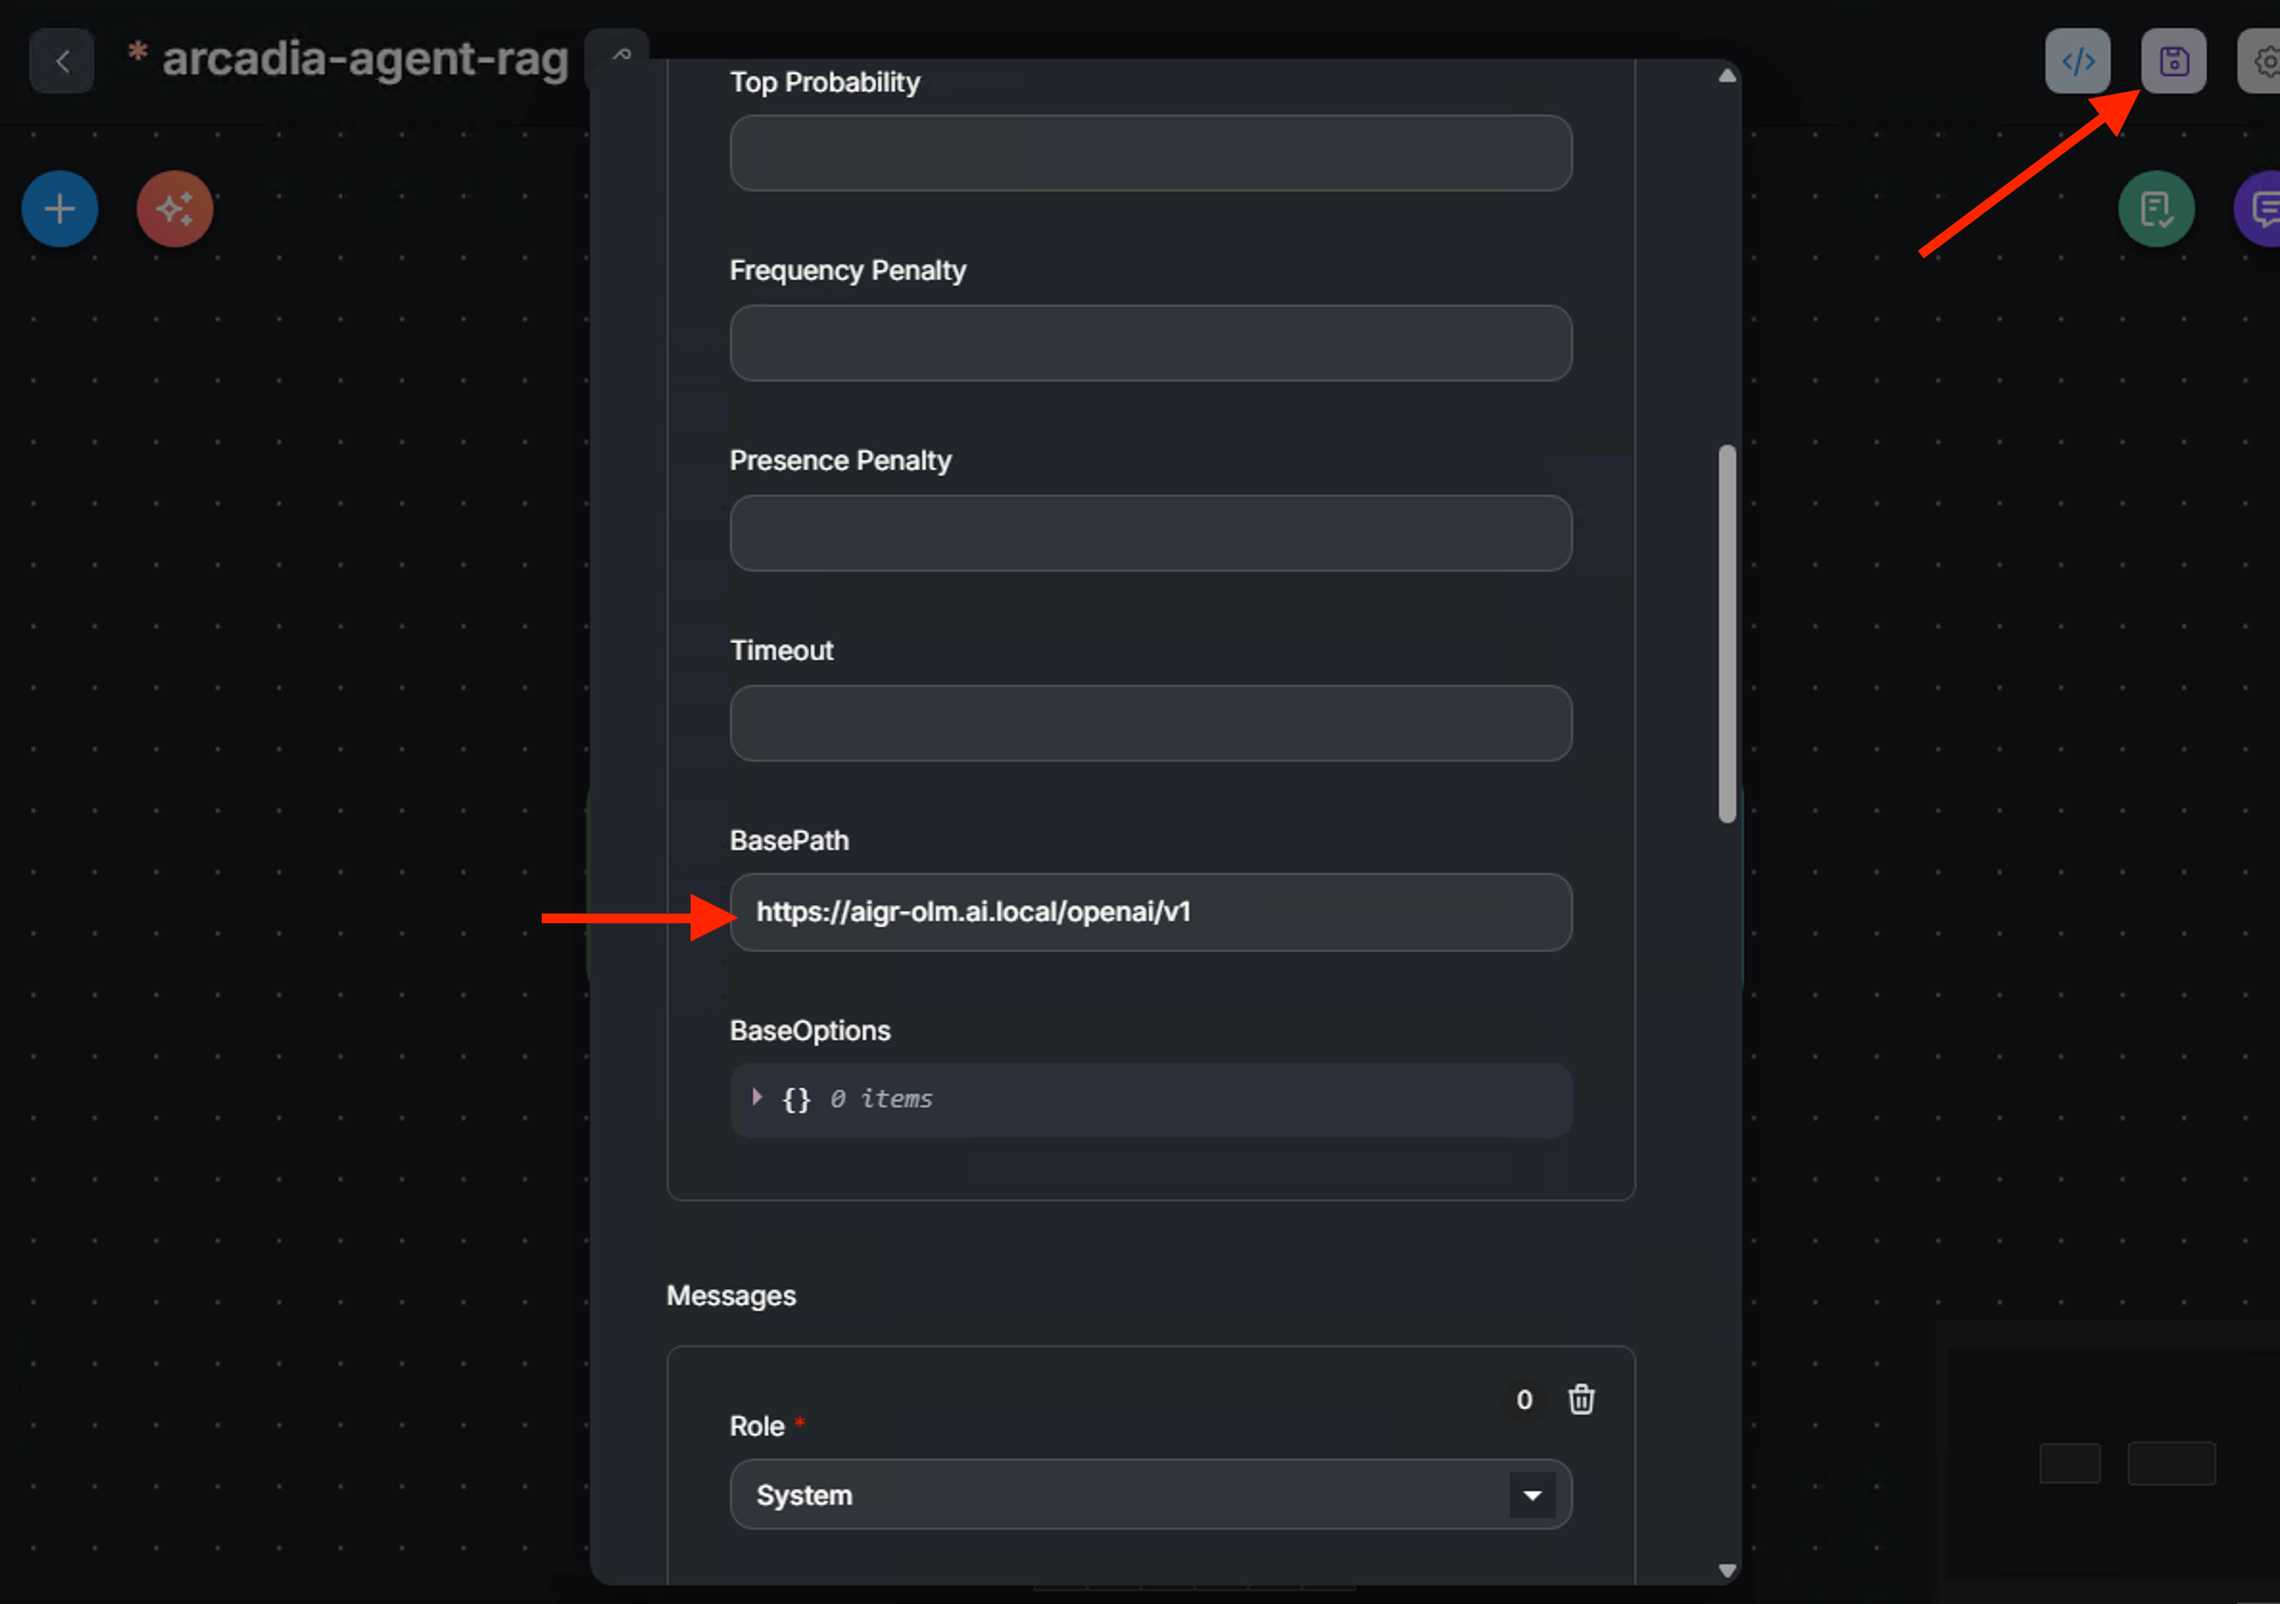
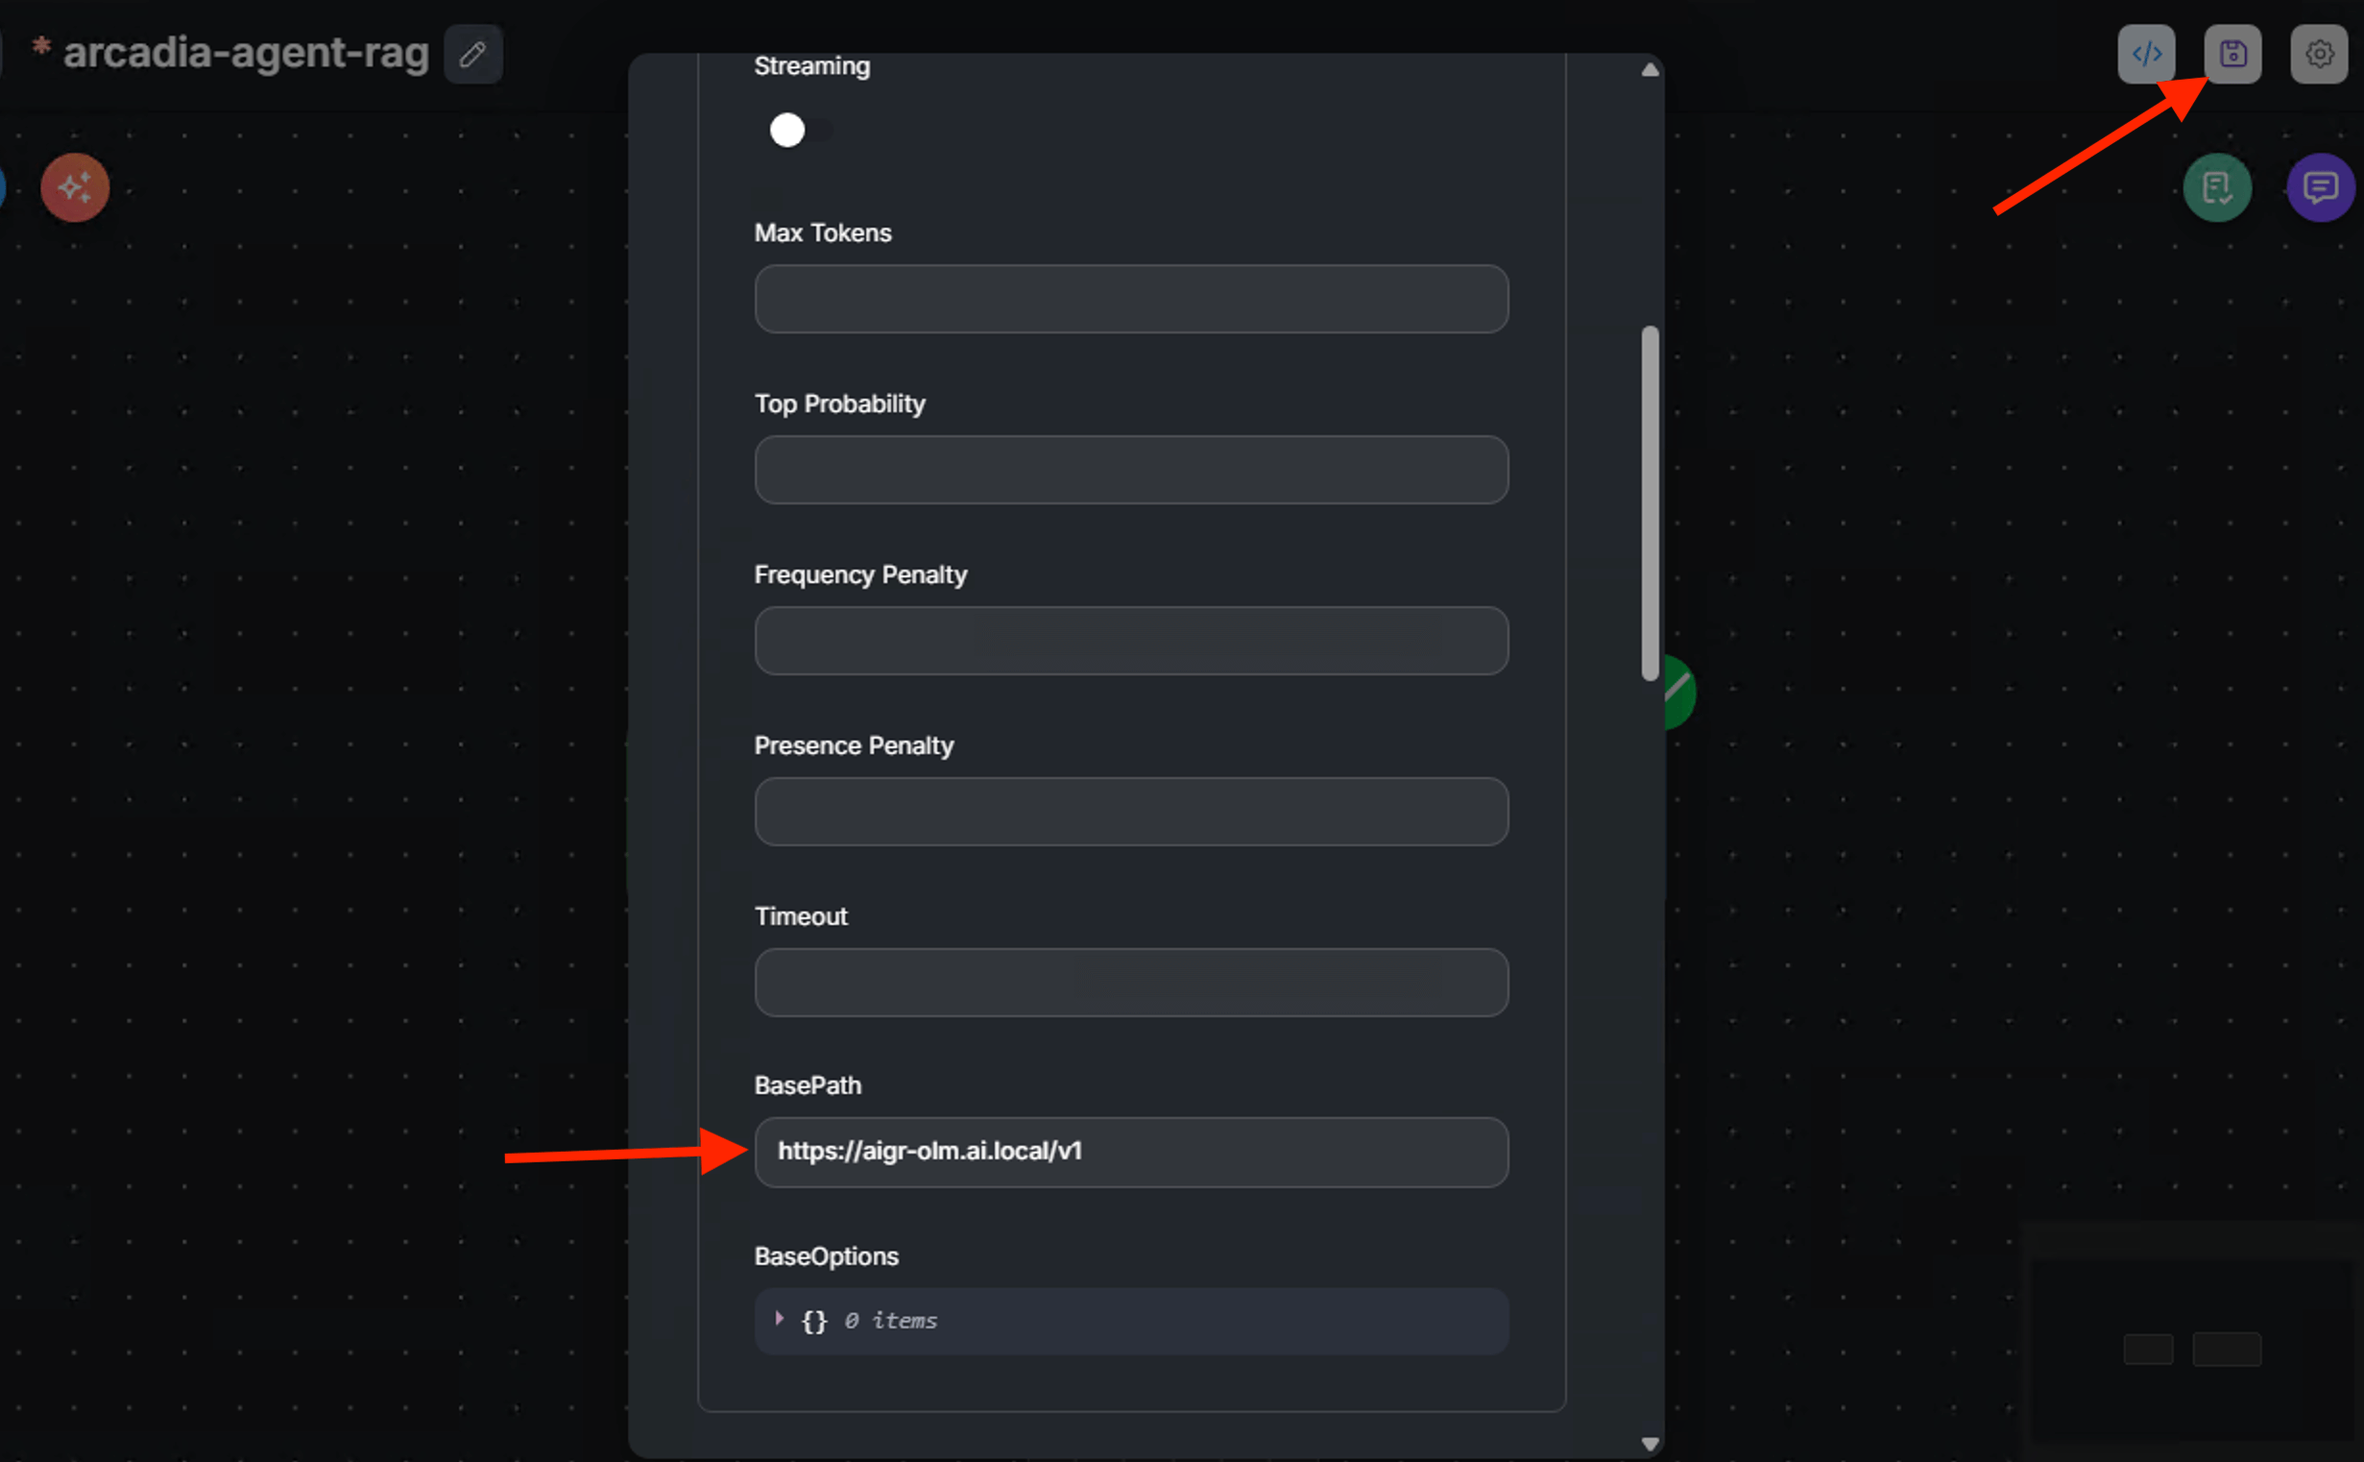
update

diff --git a/docs/class5/class5.rst b/docs/class5/class5.rst
@@ -255,7 +255,7 @@ Click **Add** on **genai-azure-openai** as the model for your project. This conn
 
 .. Attention:: 
 
-   This remote GPU inference service is running on a **Azure OpenAI Model as a Service**. Please be considerate and avoid running heavy workload that may impact other students. Performance of the inference service may vary and may not scale for large audiences. Thank you for your understanding.
+   This remote GPU inference service is running on a **Azure OpenAI Model as a Service**. Please be considerate and avoid running un-neccessary heavy workload that may impact other students. Performance of the inference service may vary. Thank you for your understanding.
 
 ..  image:: ./_static/class5-aigr-project-3-0.png
 
@@ -705,7 +705,7 @@ Update FlowiseAI QnA Agent to point to Nginx AI Guardrails connector endpoint.
 
 .. NOTE::
 
-   For this out-of-band deployment, we are going to use OpenAI API compatible endpoint as the LLM provider. In this case, **gpuaas-api-key** was pre-created and ready to be used.
+   For this out-of-band deployment, we are going to use OpenAI API compatible endpoint as the LLM provider. In this case, **azure-open-ai** was pre-created and ready to be used.
 
 
 .. image:: ./_static/class5-oob-05.png
@@ -714,7 +714,7 @@ Ensure FlowiseAI QnA Agent is pointing to Nginx AI Guardrails connector endpoint
 
 .. code-block:: bash
 
-   https://aigr-olm.ai.local/openai/v1
+   https://aigr-olm.ai.local/v1
 
 
 
